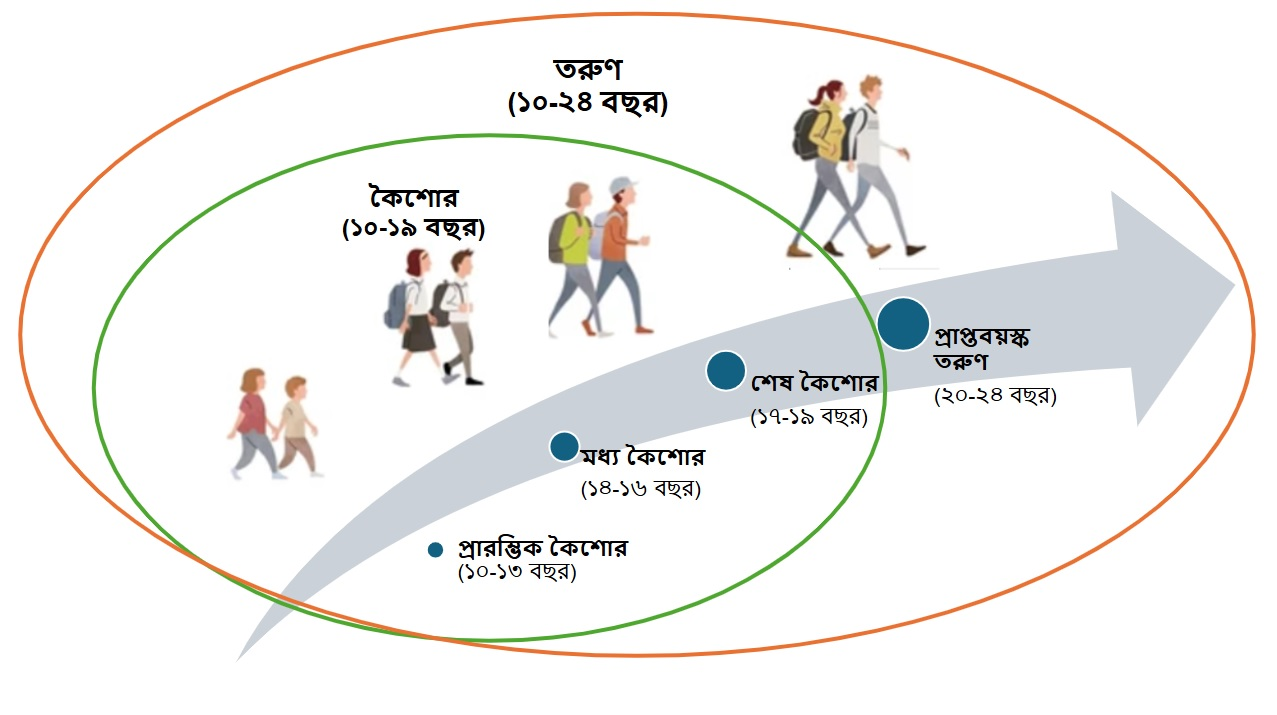
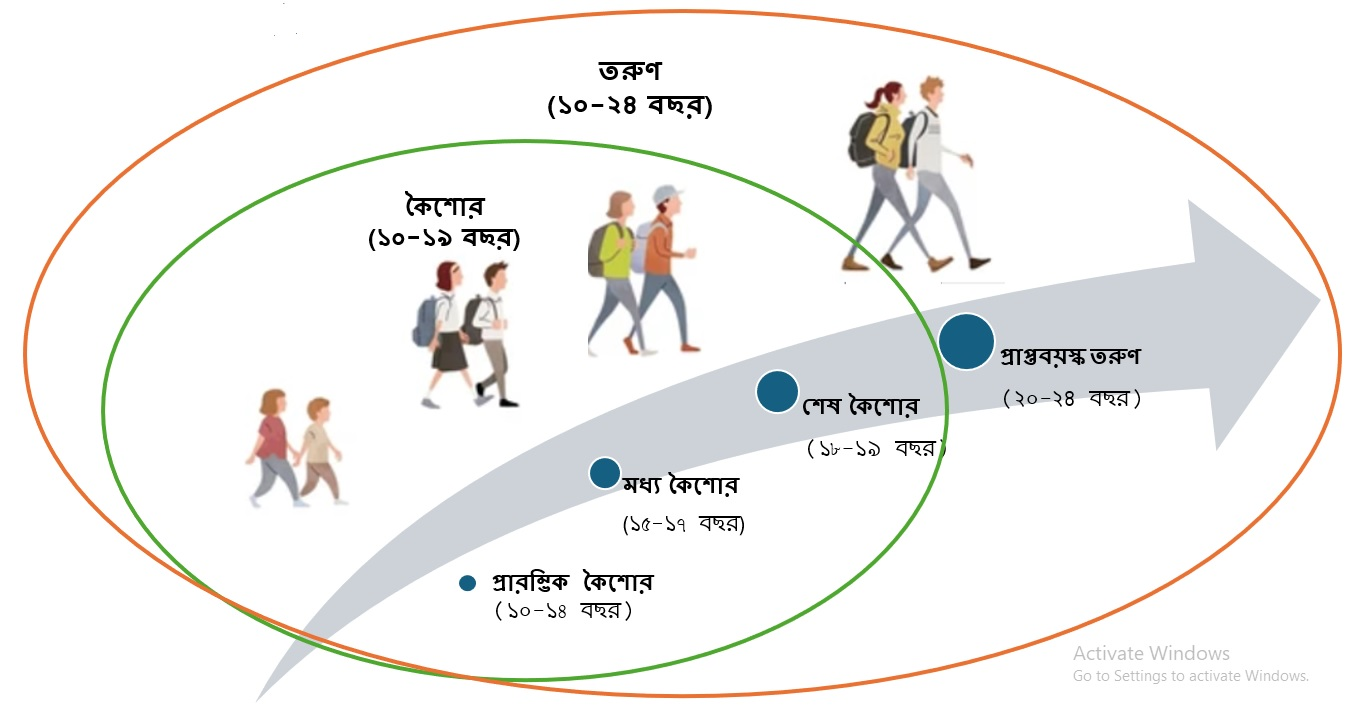
module 1

diff --git a/js/data.js b/js/data.js
@@ -116,7 +116,7 @@ const coursesData = [
         id: "ch-1",
         title: yhLang(
           "Module-1: Introduction of Young Health Ambassador Program (YHAP)",
-          "মডিউল-১: তরুণ স্বাস্থ্যদূত কার্যক্রম (ইয়ুথ হেলথ অ্যাম্বাসেডর প্রোগ্রাম)",
+          "মডিউল-১: তরুণ স্বাস্থ্যদূত কার্যক্রম (ইয়াং হেলথ অ্যাম্বাসেডর প্রোগ্রাম)",
         ),
         lessons: [
           // Understanding YHAP
@@ -168,14 +168,14 @@ const coursesData = [
             content: (function () {
               return `
               <div class="lesson-slide">
-                <h2 class="slide-title gradient-text gradient-text-hover hover-lift-sm transition-base m7l-title" data-aos="fade-up"><i class="fa-solid fa-stethoscope me-2" style="color:#06B6D4;"></i>${yhLang("Youth Health Ambassador Program Overview", "তরুণ স্বাস্থ্যদূত কার্যক্রম (ইয়ুথ হেলথ অ্যাম্বাসেডর প্রোগ্রাম)")}</h2>
+                <h2 class="slide-title gradient-text gradient-text-hover hover-lift-sm transition-base m7l-title" data-aos="fade-up"><i class="fa-solid fa-stethoscope me-2" style="color:#06B6D4;"></i>${yhLang("Youth Health Ambassador Program Overview", "তরুণ স্বাস্থ্যদূত কার্যক্রম (ইয়াং হেলথ অ্যাম্বাসেডর প্রোগ্রাম)")}</h2>
                 
                 <div class="m7l-intro-card hover-lift-sm transition-base" data-aos="fade-up" data-aos-delay="100">
                   
                   <div class="m7l-intro-content">
                     <p class="m7l-intro-text">${yhLang(
                       "The Young Health Ambassador Programme (YHAP) is a strategic joint initiative of the Ministry of Health and Family Welfare and UNICEF. This programme is designed to empower young people to increase their health awareness and build capacity for primary disease prevention and health information promotion. This training will equip young people with knowledge and skills in physical and mental health, enabling them to actively participate and influence healthy habits within their communities and networks as health ambassadors.",
-                      "তরুণ স্বাস্থ্যদূত কার্যক্রম, স্বাস্থ্য ও পরিবার কল্যাণ মন্ত্রণালয় এবং ইউনিসেফের একটি কৌশলগত যৌথ উদ্যোগ। এই কর্মসূচিটি তরুণসমাজকে তাদের স্বাস্থ্য সচেতনতা বৃদ্ধি এবং প্রাথমিক রোগ প্রতিরোধ ও স্বাস্থ্য তথ্য প্রচারে তাদের সক্ষমতা বৃদ্ধির জন্য ডিজাইন করা হয়েছে।<br></br>এই প্রশিক্ষণ, তরুণ সমাজকে শারীরিক ও মানসিক স্বাস্থ্যের জ্ঞান এবং দক্ষতায় সমৃদ্ধ করবে, যা তরুণ সমাজের স্বাস্থ্যের জন্য তাদেরকে সক্রিয় অংশগ্রহণের মাধ্যমে তাদের কমিউনিটি এবং নেটওয়ার্কের মধ্যে স্বাস্থ্যকর অভ্যাসগুলিকে প্রভাবিত করতে সাহায্য করবে।",
+                      "তরুণ স্বাস্থ্যদূত কার্যক্রম, স্বাস্থ্য ও পরিবার কল্যাণ মন্ত্রণালয় এবং ইউনিসেফের একটি সম্মিলিত উদ্যোগ। এই কর্মসূচিটি তরুণ সমাজের স্বাস্থ্যসচেতনতা বৃদ্ধি এবং প্রাথমিক পর্যায়ে রোগ প্রতিরোধ ও স্বাস্থ্যতথ্য প্রচারে তাদের সক্ষমতা বিকাশের লক্ষ্যে এই কর্মসূচিটি প্রণয়ন করা হয়েছে। এর ফলে তরুণসমাজ, স্বাস্থ্যদূত হিসেবে কাজ করার জন্য প্রস্তুত হবে। <br></br>এই প্রশিক্ষণ তরুণদের শারীরিক ও মানসিক স্বাস্থ্যের জ্ঞান ও দক্ষতায় সমৃদ্ধ করবে। এর ফলে তারা নিজেদের কমিউনিটি ও নেটওয়ার্কে সক্রিয়ভাবে অংশগ্রহণের মাধ্যমে স্বাস্থ্যকর অভ্যাস গড়ে তুলতে এবং অন্যদেরও প্রভাবিত করতে সক্ষম হবে।",
                     )}</p>
                   </div>
                 </div>
@@ -202,7 +202,7 @@ const coursesData = [
                         color: "emerald",
                         description: yhLang(
                           "According to the World Health Organization, adolescence is the life phase between childhood and adulthood, from 10 to 19 years of age. Adolescents during this time experience rapid physical growth, intellectual and mental development. It affects how they feel, think, make decisions and interact with the world around them.",
-                          "বিশ্ব স্বাস্থ্য সংস্থার মতে, বয়ঃসন্ধিকাল হল শৈশব এবং প্রাপ্তবয়স্কতার মধ্যবর্তী জীবনের পর্যায়, ১০ থেকে ১৯ বছর বয়স পর্যন্ত। কিশোর-কিশোরীরা এসময় দ্রুত শারীরিক বৃদ্ধি, বুদ্ধিবৃত্তিক এবং মানসিক বিকাশের অভিজ্ঞতা লাভ করে। এটি তাদের অনুভূতি, চিন্তাভাবনা, সিদ্ধান্ত গ্রহণ এবং তাদের চারপাশের বিশ্বের সাথে যোগাযোগের উপর প্রভাব ফেলে।",
+                          "বিশ্ব স্বাস্থ্য সংস্থার  সংজ্ঞা অনুযায়ী, ১০-১৯ বছর হচ্ছে কৈশোরকাল। শৈশব ও যৌবনের সন্ধিক্ষণে দ্রুত ও গুরুত্বপূর্ণ পরিবর্তনের সময়কালই কৈশোরকাল হিসেবে ধরা হয়। এটি জীবনের এমন একটি সময় যখন একজন মানুষ শৈশব কাল হতে প্রাপ্ত-বয়স্ক হয়।",
                         ),
                         delay: 200,
                       },
@@ -213,7 +213,7 @@ const coursesData = [
                         color: "sapphire",
                         description: yhLang(
                           "According to the United Nations (UN), youth refers to persons aged 15 to 24 years, without prejudice to other definitions by member states. It is a time of transition from childhood's dependence to adulthood's independence.",
-                          "জাতিসংঘের (UN) মতে, যুবক বলতে ১৫ থেকে ২৪ বছর বয়সী ব্যক্তিদের বোঝায়, সদস্য রাষ্ট্রগুলির অন্যান্য সংজ্ঞার সাথে কোনও বিরূপ আচরণ না করে। এটি শৈশবের নির্ভরতা থেকে প্রাপ্তবয়স্কতার স্বাধীনতায় রূপান্তরের একটি সময়কাল।",
+                          "জাতিসংঘের সংজ্ঞা অনুযায়ী, যুবক বলতে ১৫ থেকে ২৪ বছর বয়সী ব্যক্তিদের বোঝানো হয়। এটি সেই সময় যখন একজন ব্যক্তি শৈশবের নির্ভরশীলতা পেরিয়ে প্রাপ্তবয়স্কতার স্বাধীনতার দিকে অগ্রসর হয়।",
                         ),
                         delay: 250,
                       },
@@ -224,7 +224,7 @@ const coursesData = [
                         color: "tangerine",
                         description: yhLang(
                           "According to the World Health Organization (WHO), young people refers to persons aged 10 to 24 years.",
-                          "বিশ্ব স্বাস্থ্য সংস্থার (WHO) মতে, তরুণ বলতে ১০ থেকে ২৪ বছর বয়সী ব্যক্তিদের বোঝায়।",
+                          `বিশ্ব স্বাস্থ্য সংস্থার সংজ্ঞা অনুযায়ী, "তরুণ" বলতে ১০ থেকে ২৪ বছর বয়সী ব্যক্তিদের বোঝায়।`,
                         ),
                         delay: 300,
                       },
@@ -366,7 +366,7 @@ const coursesData = [
                             color: "tangerine",
                             description: yhLang(
                               "The YHAP empowers young people with necessary skills, confidence and resources to take effective action, contribute to economic development, and create healthy future workforces for tomorrow's society.",
-                              "তরুণ স্বাস্থ্যদূত কার্যক্রম তরুণদের প্রয়োজনীয় দক্ষতা, আত্মবিশ্বাস ও উপকরণ দিয়ে তরুণ স্বাস্থ্যদূত কার্যক্রম তরুণদের প্রয়োজনীয় দক্ষতা, আত্মবিশ্বাস ও উপকরণ দিয়ে সহায়তা করে, যাতে তারা ভবিষ্যতের জন্য একটি সৃজনশীল ও সুস্থ কর্মশক্তি গড়ে তোলার মাধ্যমে অর্থনৈতিক উন্নয়নে কার্যকর ভূমিকা পালন করতে পারে। ",
+                              "রুণ স্বাস্থ্যদূত কার্যক্রম তরুণদের প্রয়োজনীয় দক্ষতা, আত্মবিশ্বাস ও উপকরণ দিয়ে তরুণ স্বাস্থ্যদূত কার্যক্রম তরুণদের প্রয়োজনীয় দক্ষতা, আত্মবিশ্বাস ও উপকরণ দিয়ে সহায়তা করে, যাতে তারা ভবিষ্যতের জন্য একটি সৃজনশীল ও সুস্থ কর্মশক্তি গড়ে তোলার মাধ্যমে অর্থনৈতিক উন্নয়নে কার্যকর ভূমিকা পালন করতে পারে। ",
                             ),
                           },
                           {
@@ -417,7 +417,7 @@ const coursesData = [
                             <i class="fa-solid fa-star"></i>
                           </div>
                           <div class="m8l-orbit-center-text">
-                            <h3>${yhLang("Youth Health Ambassador Program", "ইয়ুথ হেলথ অ্যাম্বাসেডর প্রোগ্রাম")}</h3>
+                            <h3>${yhLang("Youth Health Ambassador Program", "ইয়াং হেলথ অ্যাম্বাসেডর প্রোগ্রাম")}</h3>
                           </div>
                         </div>
                         <div class="m8l-orbit-ring"></div>
@@ -427,7 +427,7 @@ const coursesData = [
                             { text: yhLang("Health Literacy", "স্বাস্থ্য সাক্ষরতা"), icon: "fa-book-open", gradient: "m8l-orbit-rose" },
                             { text: yhLang("Leadership", "নেতৃত্ব"), icon: "fa-crown", gradient: "m8l-orbit-violet" },
                             { text: yhLang("Advocacy", "অ্যাডভোকেসি"), icon: "fa-bullhorn", gradient: "m8l-orbit-cyan" },
-                            { text: yhLang("Peer-to-Peer Impact", "পিয়ার টু পিয়ার ইনফ্লুয়েন্স"), icon: "fa-people-arrows", gradient: "m8l-orbit-sapphire" },
+                            { text: yhLang("Peer-to-Peer Impact", "পিয়ার টু পিয়ার প্রভাব"), icon: "fa-people-arrows", gradient: "m8l-orbit-sapphire" },
                             { text: yhLang("Empowerment", "ক্ষমতায়ন"), icon: "fa-bolt", gradient: "m8l-orbit-tangerine" },
                           ];
                           return orbitItems
